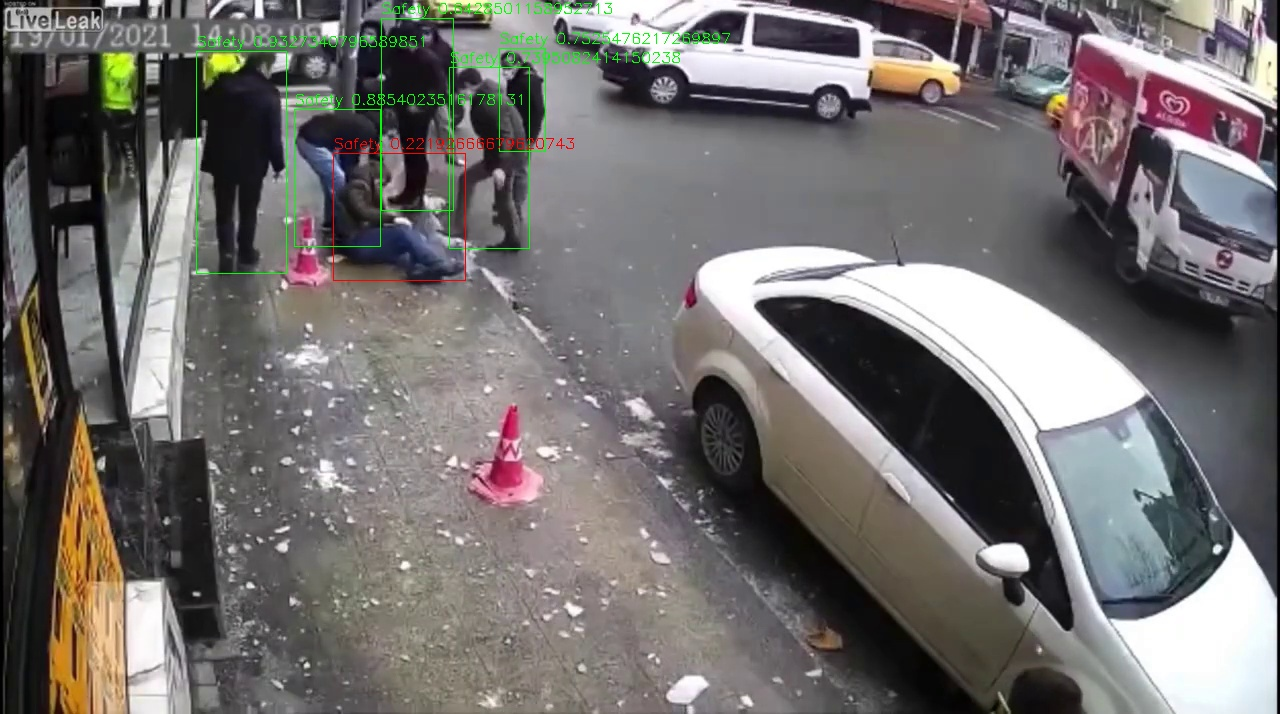
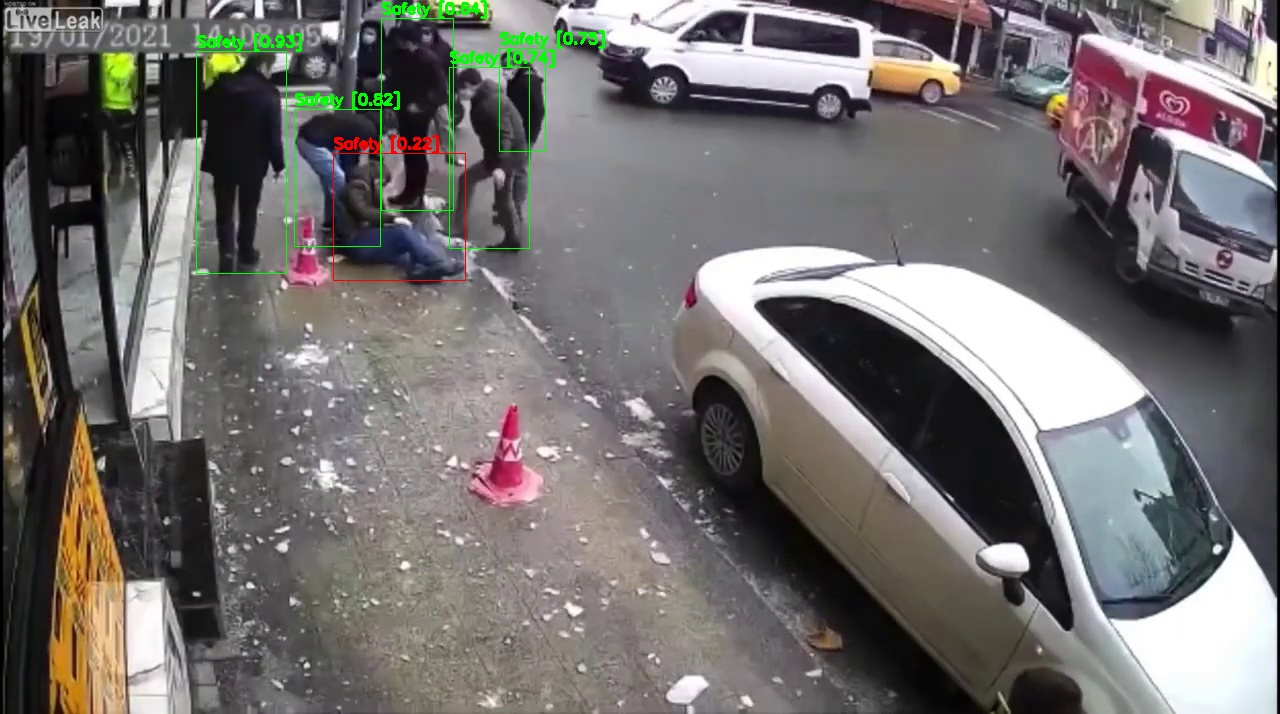
new visualization

Changed region(s): [[0.1562, 0.0, 0.5625, 0.0924], [0.25, 0.1849, 0.4688, 0.2157], [0.2188, 0.1232, 0.4062, 0.1541]]

diff --git a/object_monitoring/Model.py b/object_monitoring/Model.py
@@ -68,12 +68,12 @@ class Model():
 
                 cv2.rectangle(img, pt1, pt2, draw_color, 1)
                 cv2.putText(img,
-                    f"Safety {sum(probs[:len(self.class_list_normal)])}",
+                    f"Safety [{round(sum(probs[:len(self.class_list_normal)]), 2)}]",
                     (pt1[0], pt1[1] - 5),
                     cv2.FONT_HERSHEY_SIMPLEX,
                     0.5,
                     draw_color,
-                    1)
+                    2)
 
         if self.return_image:
             img = cv2.cvtColor(img, cv2.COLOR_RGB2BGR)
